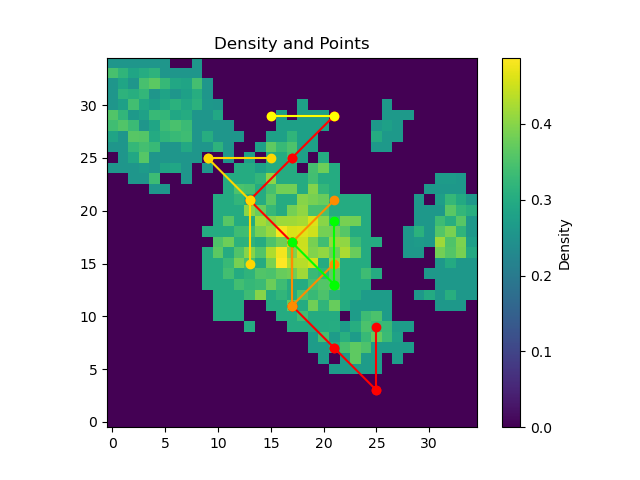
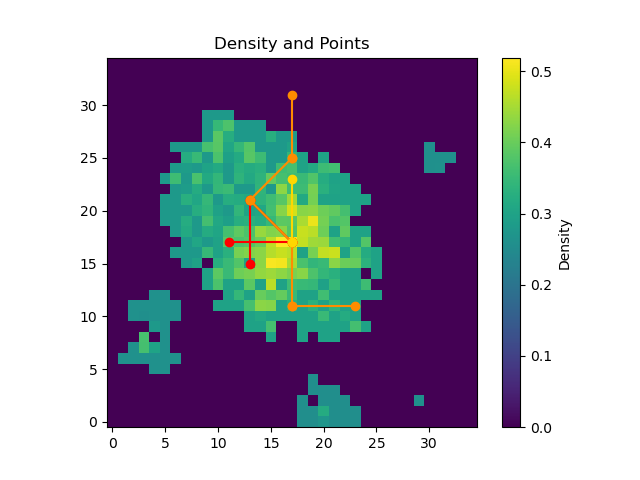
improved hyperparameters

diff --git a/new_coord.py b/new_coord.py
@@ -20,7 +20,7 @@ def calculate_averages(lst, chunk_size=250):
 
 class Coordinator:
 
-    def __init__(self, size, n_simulations, city_center, city_facts, first_station, metro_facts, buffer_size, learning_var, n_iter, allowed_per_play, total_suggerable):
+    def __init__(self, size, n_simulations, city_center, city_facts, first_station, metro_facts, buffer_size, learning_var, n_iter, total_suggerable):
 
         self.size = size
 
@@ -44,7 +44,6 @@ class Coordinator:
 
         self.n_iter = n_iter
 
-        self.allowed_per_play = allowed_per_play
         self.total_suggerable = total_suggerable
 
         self.previous_r=0
@@ -263,7 +262,7 @@ metro_params={
 
     "max_connected" : 2, # A change station has at most 2 connections (CANNOT BE 0)
 
-    "r_walking" : 4,
+    "r_walking" : 15,
     "k_walking" : 6,
     "make_connection_distance":3,
 
@@ -278,22 +277,21 @@ city_params={
 }
 
 learning_var={
-    "epsilon":0.95,
-    "epsilon_decay":0.999995,
-    "tau":0.05,
-    "update_target_interval":100,
+    "epsilon":0.85,
+    "epsilon_decay":0.99995,
+    "tau":0.15,
+    "update_target_interval":50,
     "gamma":0.98
 
 }
 
 
-allowed_per_play = 7
 total_suggerable = 20
 
-n_iter = 18
+n_iter = 10
 
 start_time = time.time()
-coord = Coordinator(35, 200, (0,0), city_params, (0,0), metro_params, 90000000, learning_var, n_iter, allowed_per_play , total_suggerable)
+coord = Coordinator(35, 200, (0,0), city_params, (0,0), metro_params, 300000, learning_var, n_iter , total_suggerable)
 
 
 all = []

diff --git a/env.py b/env.py
@@ -157,6 +157,8 @@ class Environment():
         self.info[0, J+1] = found_from
         self.info[0, J+2] = found_to
         self.info[0, J+3] = found
+
+        #print("found", found_from, found_to, found)
         J+=4
         J_before=J
 
@@ -565,18 +567,22 @@ class Environment():
         found_to = 0
         found = 0
 
-        for i in range(len(self.initial_points)):
+        for i in range(self.n_simulations):
 
             result = self.metro.is_on_shortest_path(self.initial_points[i], self.final_points[i], v)
 
             if result is not None:
+
                 if result == 0:
                     found_from+=1
                     found_to+=1
+
                 elif result==1:
-                    found_from=1
-                elif result==2:
                     found_to+=1
+
+                elif result==2:
+                    found_from+=1
+
                 else:
                     found+=1
 
